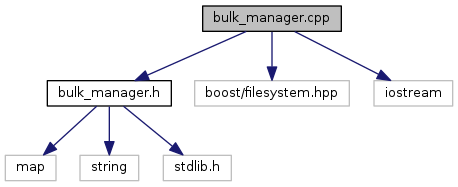
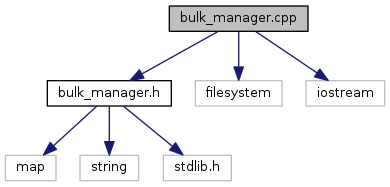
Deploy sbelkov84/bulkmt to github.com/sbelkov84/bulkmt.git:gh-pages

diff --git a/d4/d1c/bulk__manager_8cpp.html b/d4/d1c/bulk__manager_8cpp.html
@@ -86,7 +86,7 @@ var searchBox = new SearchBox("searchBox", "../../search",false,'Search');
 </div><!--header-->
 <div class="contents">
 <div class="textblock"><code>#include &quot;<a class="el" href="../../d5/d5b/bulk__manager_8h_source.html">bulk_manager.h</a>&quot;</code><br />
-<code>#include &lt;boost/filesystem.hpp&gt;</code><br />
+<code>#include &lt;filesystem&gt;</code><br />
 <code>#include &lt;iostream&gt;</code><br />
 </div><div class="textblock"><div class="dynheader">
 Include dependency graph for bulk_manager.cpp:</div>
